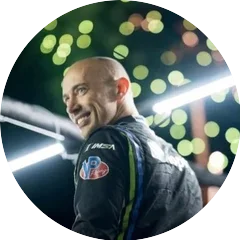
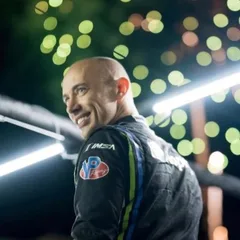
One home for the pictures people add: assets/images
Five team photos on the teams page were circular crops with
transparent corners while the rest were square. The redesign had
square replacements parked in public/team and a swap in the porter
that pointed the page at them, which stopped matching once the build
read this repository's own files instead of the live site.

Now there is one place. The five photos in assets/images/team are
replaced with square crops of the same pictures, from the same
profile photos, at the same 240x240 size and name. The six theme
preview screenshots move from public/ to assets/images/theme-previews.
public/team and the porter's swap go. public/ is left holding only
what the build generates.

diff --git a/src/components/ThemePicker.tsx b/src/components/ThemePicker.tsx
@@ -191,7 +191,7 @@ export function ThemePicker() {
         const img = new Image()
         img.fetchPriority = 'low'
         img.decoding = 'async'
-        img.src = `/theme-previews/${theme.id}.png`
+        img.src = `/assets/images/theme-previews/${theme.id}.png`
         // Not every browser has decode(), whatever lib.dom promises.
         // eslint-disable-next-line @typescript-eslint/no-unnecessary-condition
         img.decode?.().catch(() => {})
@@ -415,7 +415,7 @@ export function ThemePicker() {
                       slides sideways inside the frame to present its middle
                       in that sliver rather than a bare edge. */}
                     <img
-                      src={`/theme-previews/${theme.id}.png`}
+                      src={`/assets/images/theme-previews/${theme.id}.png`}
                       alt={`${theme.name} theme preview`}
                       width={1800}
                       height={1012}
@@ -429,7 +429,7 @@ export function ThemePicker() {
                         if (img.dataset.retried) return
                         img.dataset.retried = ''
                         window.setTimeout(() => {
-                          img.src = `/theme-previews/${theme.id}.png?retry`
+                          img.src = `/assets/images/theme-previews/${theme.id}.png?retry`
                         }, 1000)
                       }}
                       className="w-full select-none object-cover transition-[transform,filter] duration-300 ease-out"

diff --git a/src/routes/index.tsx b/src/routes/index.tsx
@@ -757,7 +757,7 @@ function DhhQuote() {
             the photo's bright ground floated loose on the panel without the
             hairline seating it. */}
         <img
-          src="/team/dhh.webp"
+          src="/assets/images/team/dhh.webp"
           alt=""
           width={48}
           height={48}

diff --git a/scripts/port_content.py b/scripts/port_content.py
@@ -34,7 +34,6 @@ from html import unescape
 from pathlib import Path
 
 OUT = Path(__file__).resolve().parent.parent / 'src' / 'data'
-PUBLIC = Path(__file__).resolve().parent.parent / 'public'
 
 PAGES = [
     'air', 'foundation', 'meetups', 'patrons', 'security', 'security/credits',
@@ -108,33 +107,6 @@ def extract_title(src: str) -> str:
 
 
 
-def local_avatar(url: str) -> str:
-    """Prefers public/team/<file> over the upstream URL when we have a copy.
-
-    Most of the upstream avatars are circular crops with transparent corners,
-    which is not what this site wants, so square replacements are dropped
-    into public/team under the person's own name. Any extension matches, so
-    a replacement does not have to be re-encoded to keep the name it had.
-    Anyone we have no local copy of keeps hot-linking upstream, so a new
-    team member still shows up.
-    """
-    stem = url.rsplit('/', 1)[-1].rsplit('.', 1)[0]
-    for local in sorted((PUBLIC / 'team').glob(f'{stem}.*')):
-        return f'/team/{local.name}'
-    return url
-
-
-def localise_team_avatars(html: str) -> str:
-    """Points the ported teams page at the same local avatars the home page
-    uses. Without this the page kept the upstream circular crops while the
-    home page showed square replacements of the same people."""
-    return re.sub(
-        r'src="(https://omarchy\.org/assets/images/team/[^"]+)"',
-        lambda m: 'src="%s"' % local_avatar(m.group(1)),
-        html,
-    )
-
-
 def parse_teams(html: str) -> list[dict]:
     """Turns the ported teams page into structured teams and members.
 
@@ -162,7 +134,7 @@ def parse_teams(html: str) -> list[dict]:
                 'name': html_mod.unescape(person.group(2).strip()),
                 'meta': html_mod.unescape((meta.group(1) if meta else '').strip()),
                 'href': person.group(1),
-                'avatar': local_avatar(avatar.group(1)) if avatar else None,
+                'avatar': avatar.group(1) if avatar else None,
             })
         teams.append({
             'id': team_id,
@@ -265,7 +237,7 @@ def main() -> None:
         src = (repo / slug / 'index.html').read_text()
         pages[slug] = {
             'title': extract_title(src),
-            'html': localise_team_avatars(clean(extract_main(src))),
+            'html': clean(extract_main(src)),
         }
     (OUT / 'pages.json').write_text(json.dumps(pages))
     print(f'pages.json: {len(pages)} pages')
